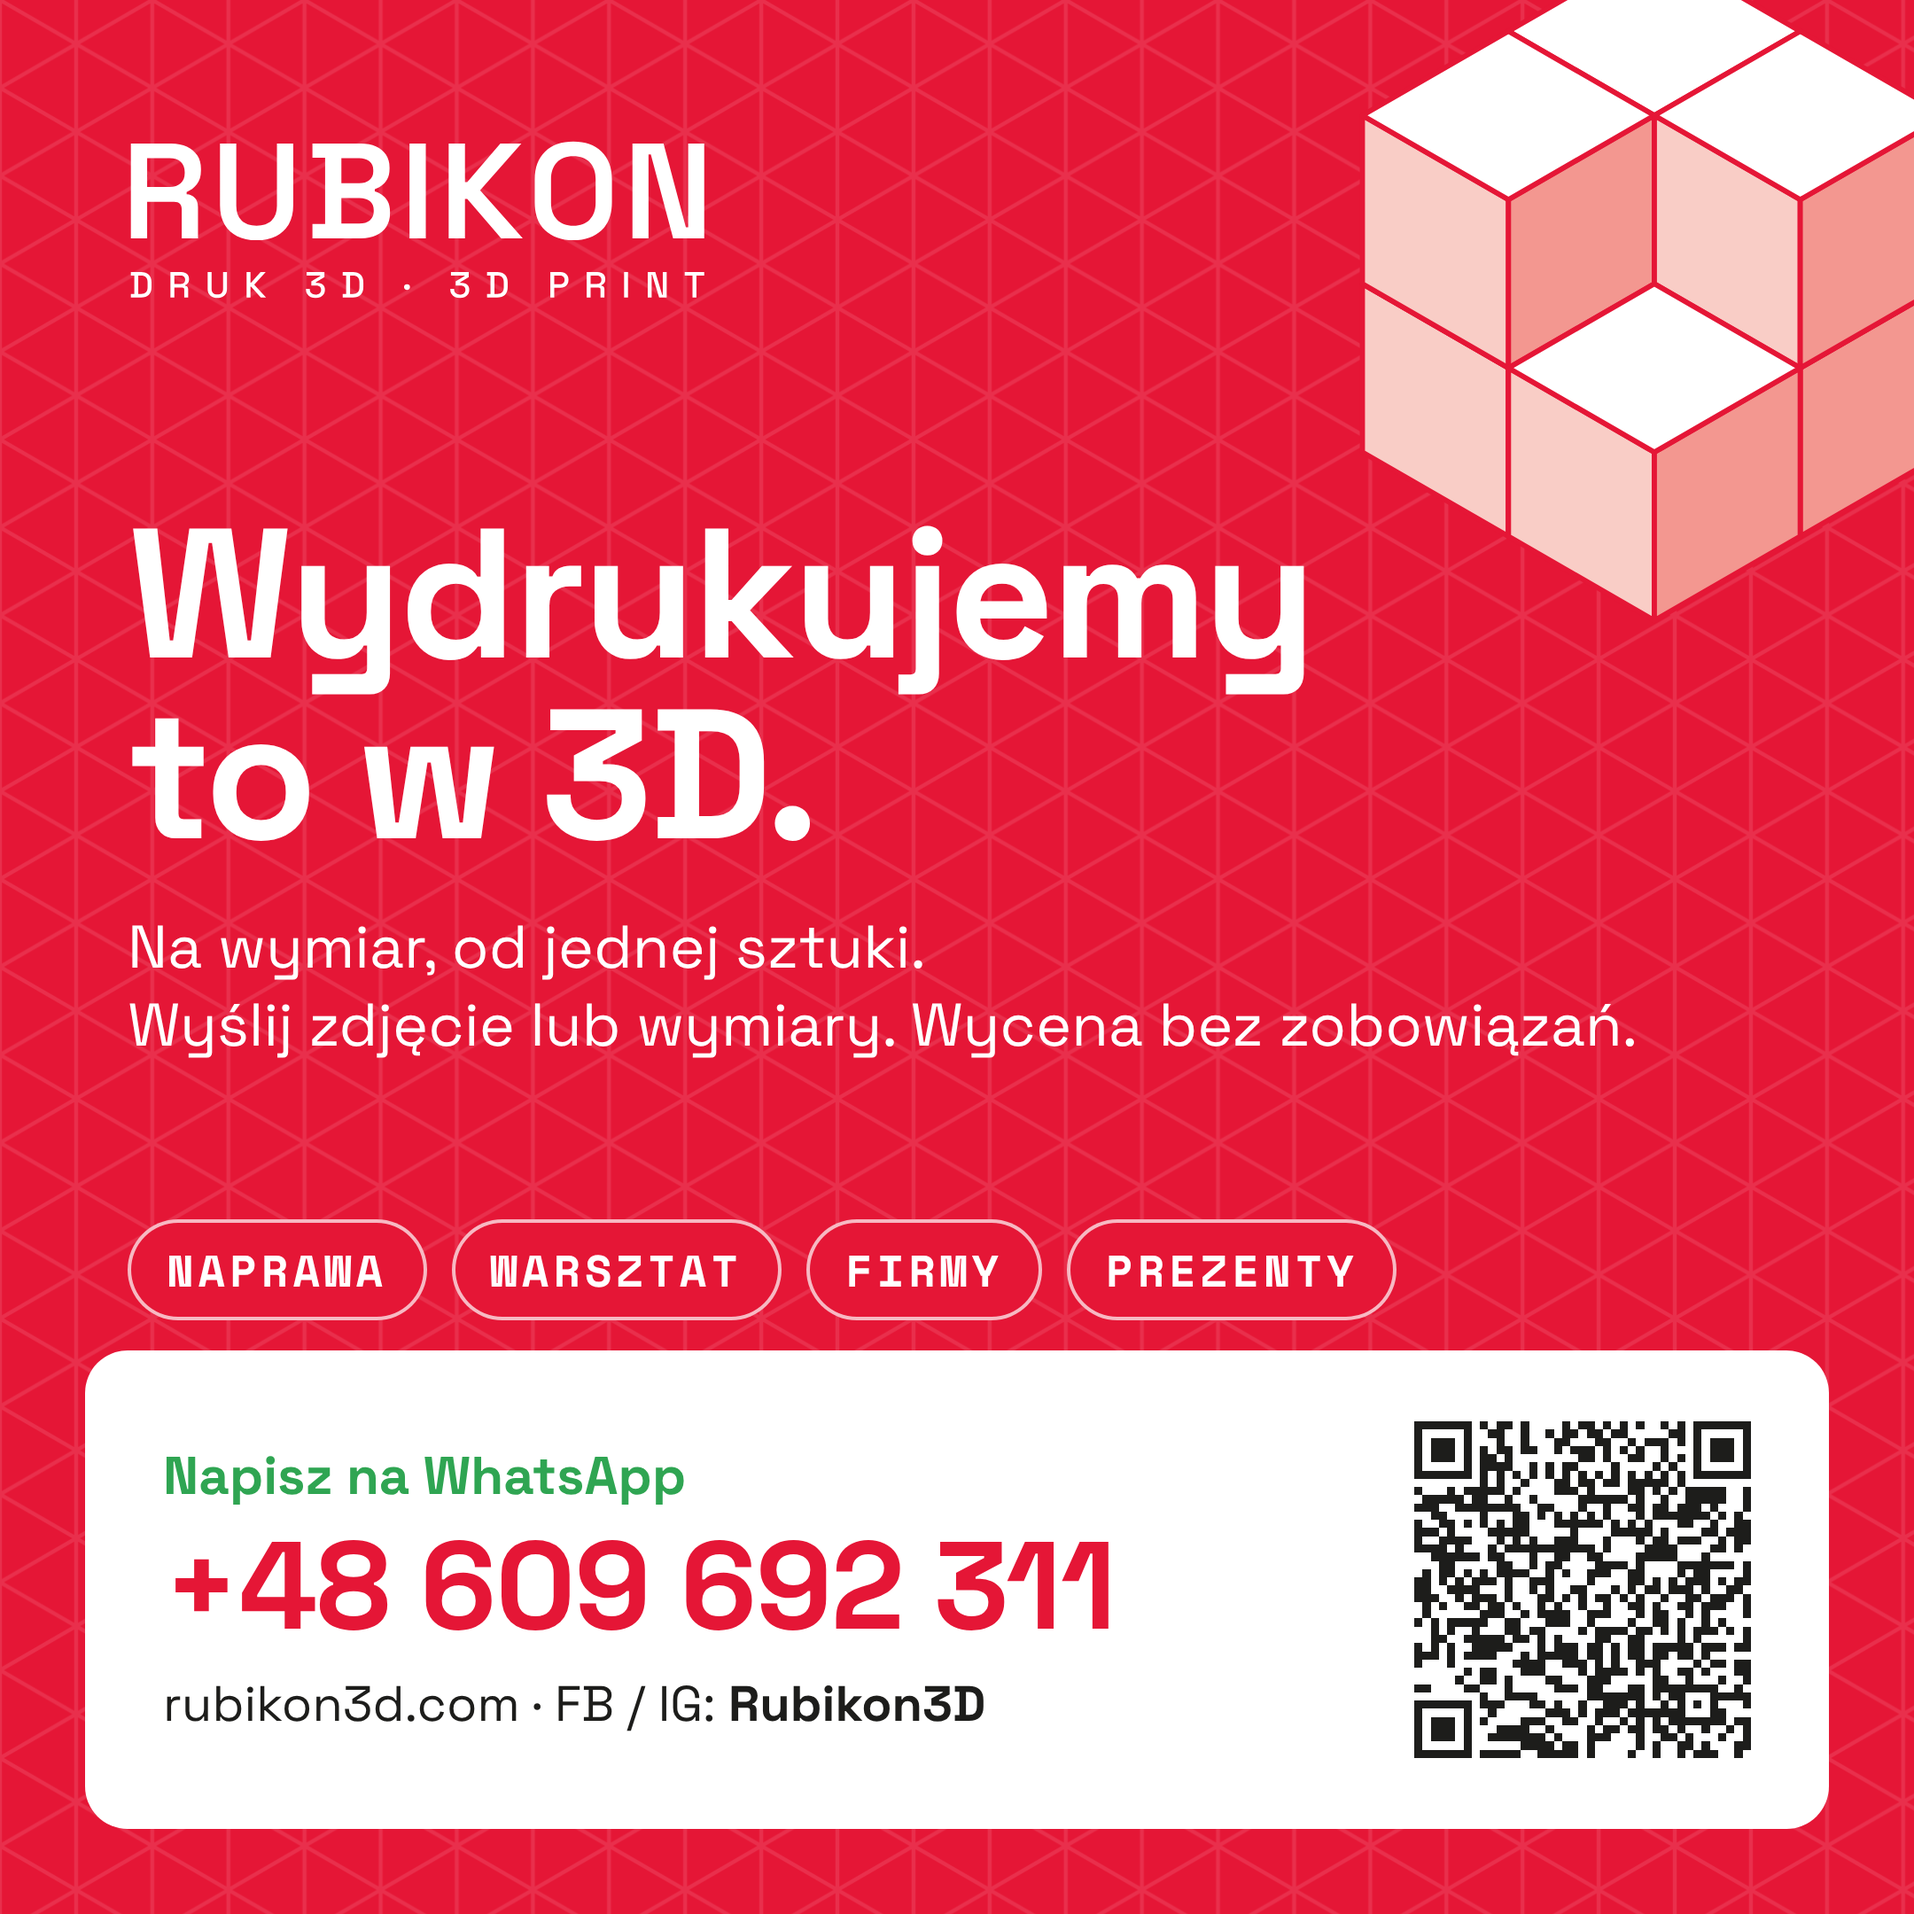
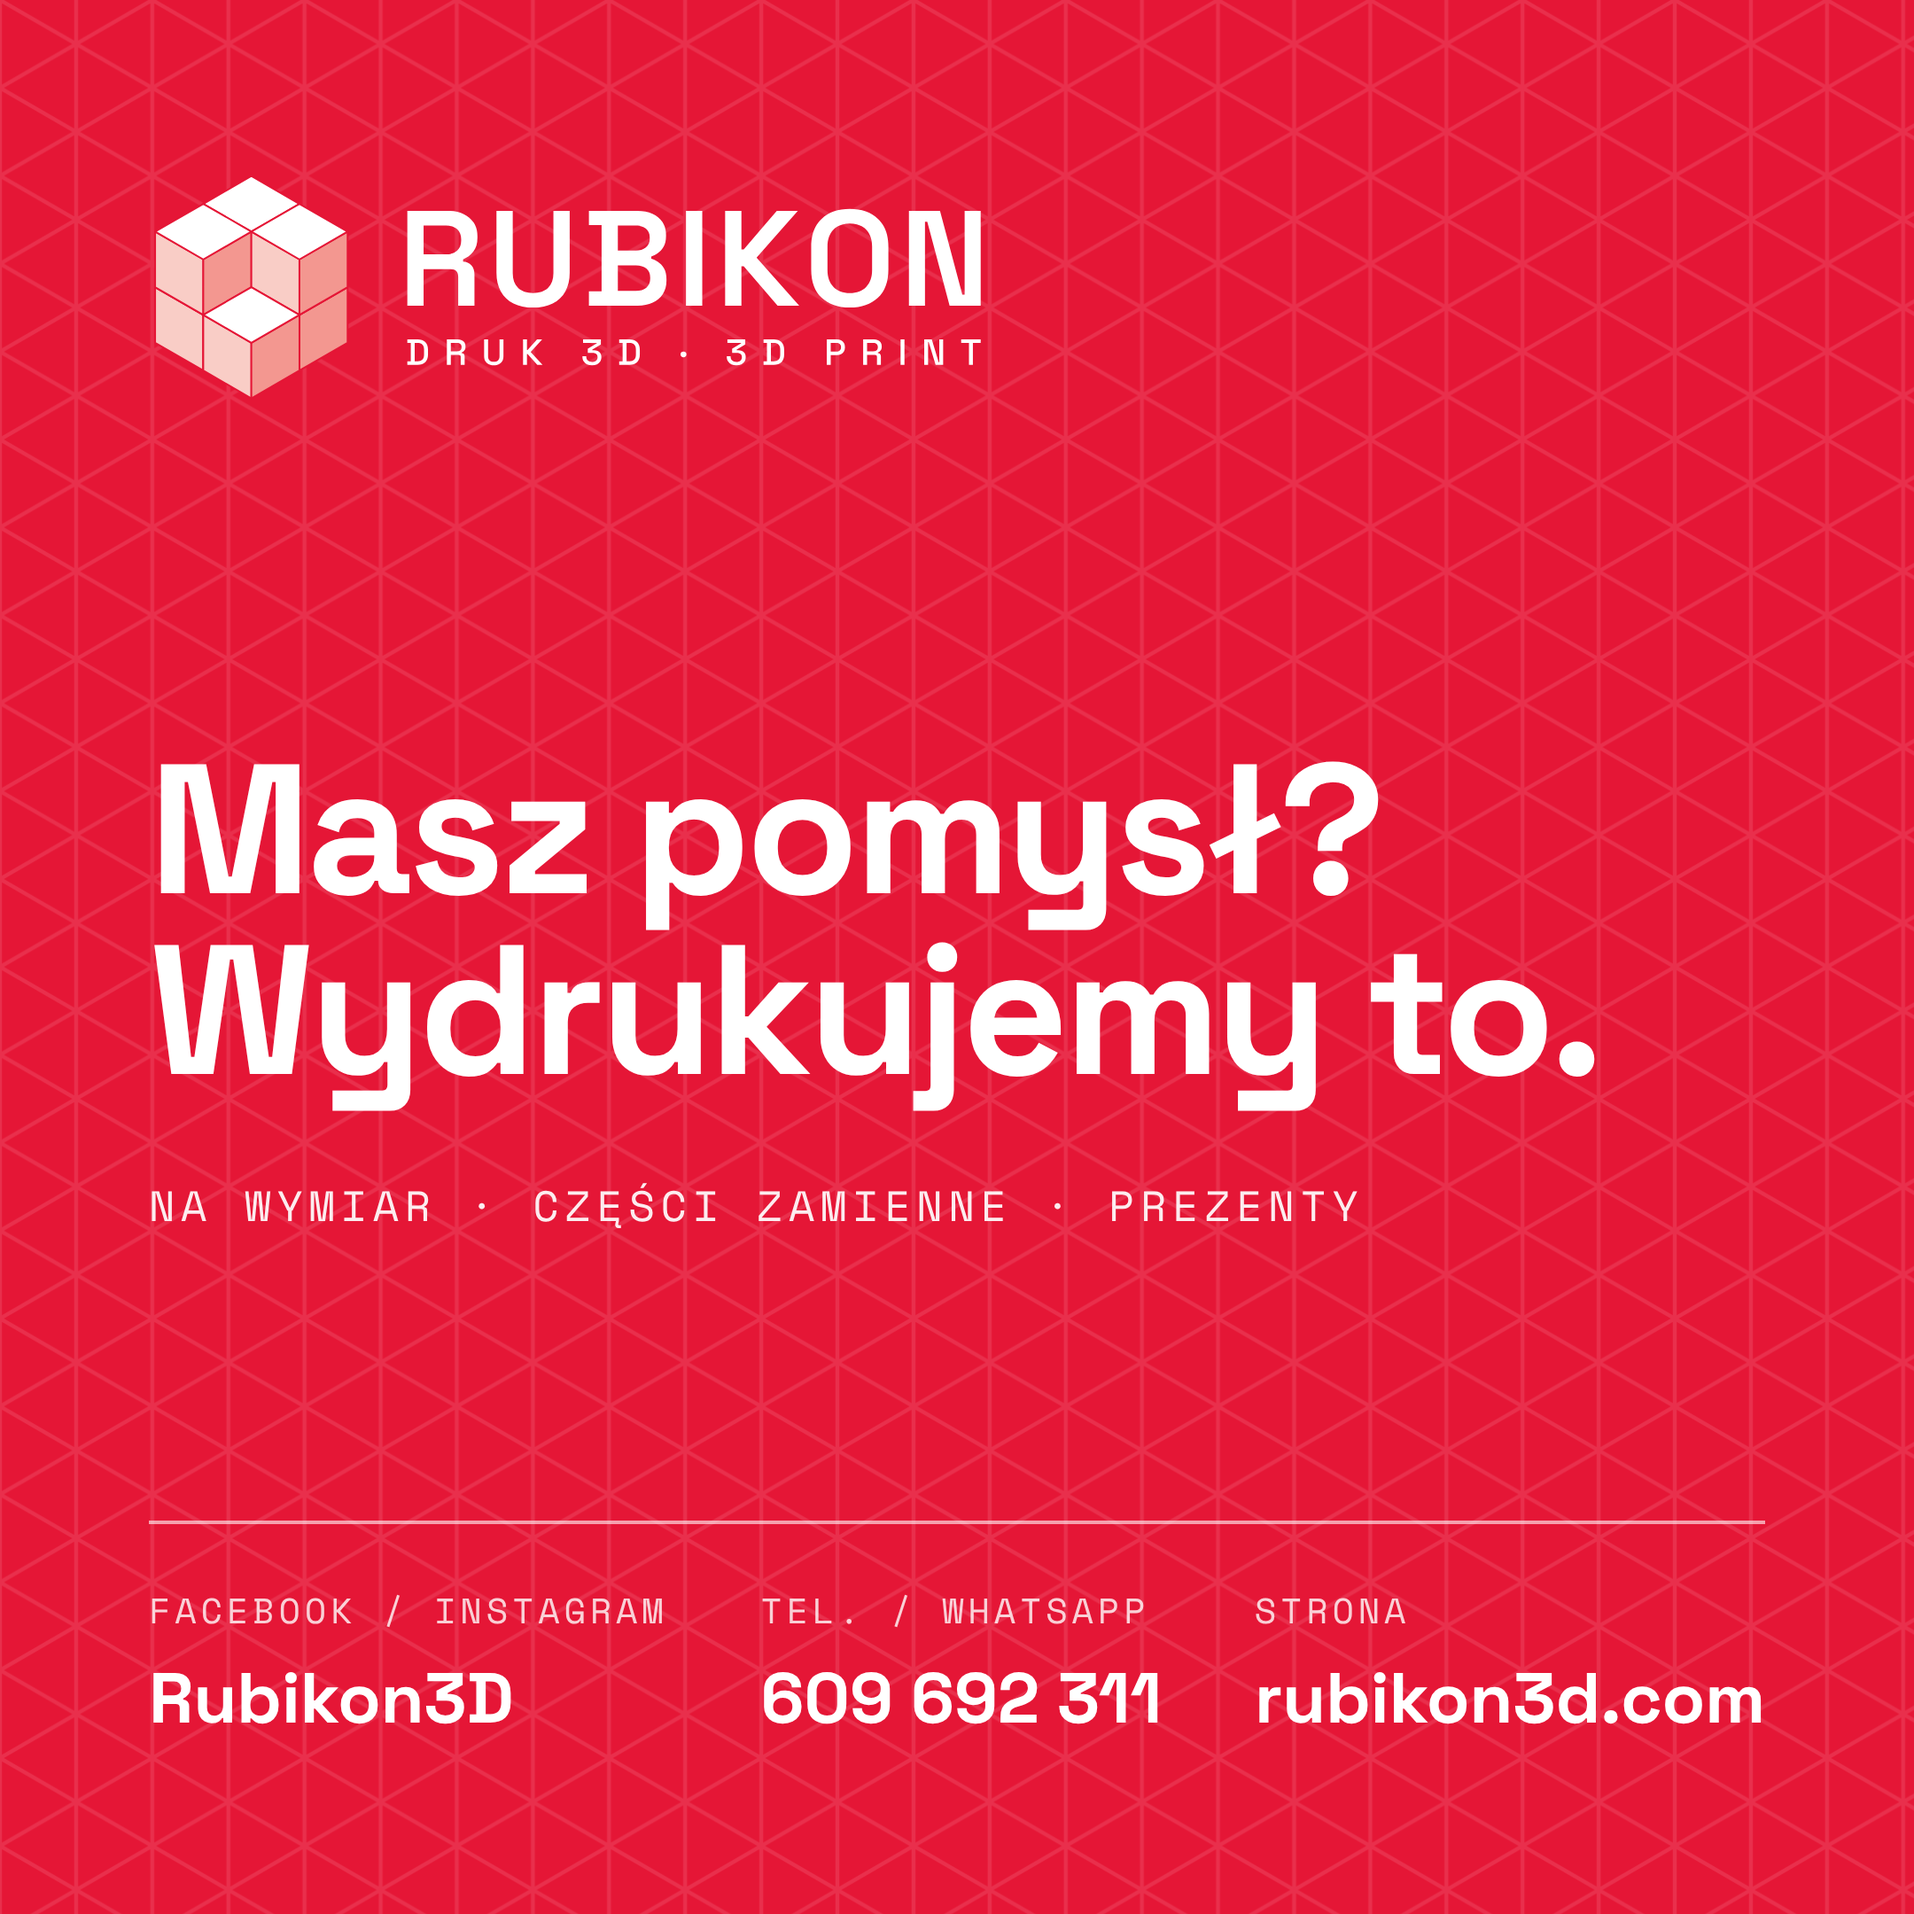
FB graphic: cleaner layout, equal contact channels (FB/IG, phone/WhatsApp, www); texts for page and private account
Claude-Session: https://claude.ai/code/session_01V9n2ssHcYFY6tMCdQtCuVM

diff --git a/rubikon3d-ulotki/zrodla/social.py b/rubikon3d-ulotki/zrodla/social.py
@@ -17,39 +17,32 @@ GRID = f"""<svg class="iso" xmlns="http://www.w3.org/2000/svg"><defs><pattern id
 <rect width="100%" height="100%" fill="url(#g)"/></svg>"""
 
 CSS = (A / "fonts.css").read_text() + """
-:root{--red:#E51636;--ink:#1D1D1B;--wa:#2FA552}
+:root{--red:#E51636}
 *{box-sizing:border-box;margin:0;padding:0}
 html,body{width:1080px;height:1080px}
 body{font-family:'Space Grotesk',sans-serif;-webkit-font-smoothing:antialiased}
 .sheet{position:relative;width:1080px;height:1080px;overflow:hidden;background:var(--red);color:#fff}
 .iso{position:absolute;inset:0;width:100%;height:100%}
-.cube{position:absolute;right:-30px;top:-40px;height:400px}
-.brand{position:absolute;left:72px;top:78px;height:92px}
-.hd{position:absolute;left:72px;right:72px;top:285px}
-.hd h1{font-size:104px;line-height:.98;font-weight:700;letter-spacing:-.02em}
-.hd p{margin-top:24px;font-size:34px;line-height:1.3}
-.tags{position:absolute;left:72px;right:72px;top:688px;display:flex;flex-wrap:wrap;gap:14px}
-.tags i{font-style:normal;background:var(--red);font-family:'Space Mono',monospace;font-weight:700;font-size:25px;letter-spacing:.1em;border:2px solid #ffffffb3;border-radius:40px;padding:8px 20px}
-.card{position:absolute;left:48px;right:48px;bottom:48px;height:270px;background:#fff;color:var(--ink);border-radius:24px;display:flex;align-items:center;gap:40px;padding:0 44px}
-.card .txt{flex:1;min-width:0}
-.card .wa{font-size:30px;font-weight:700;color:var(--wa)}
-.card .tel{font-size:70px;font-weight:700;letter-spacing:-.01em;line-height:1.05;margin:6px 0 12px;color:var(--red)}
-.card .more{font-size:28px;line-height:1.35}
-.card .more b{font-weight:700}
-.card .qr{width:190px;height:190px;flex:none}
-.card .qr svg{display:block;width:100%;height:100%}
+.logo{position:absolute;left:84px;top:96px;display:flex;align-items:center;gap:28px}
+.logo .c{height:132px}.logo .w{height:92px}
+.hd{position:absolute;left:84px;right:84px;top:418px}
+.hd h1{font-size:104px;white-space:nowrap;line-height:.98;font-weight:700;letter-spacing:-.025em}
+.hd p{margin-top:40px;font-family:'Space Mono',monospace;font-size:24px;letter-spacing:.14em;opacity:.92}
+.ct{position:absolute;left:84px;right:84px;bottom:96px;border-top:2px solid #ffffff99;padding-top:34px;display:grid;grid-template-columns:auto auto auto;justify-content:space-between;gap:28px}
+.ct span{display:block;font-family:'Space Mono',monospace;font-size:20px;letter-spacing:.12em;opacity:.8}
+.ct b{display:block;margin-top:10px;font-size:40px;font-weight:700;letter-spacing:-.005em}
 """
 
 HTML = f"""<!doctype html><html lang=pl><head><meta charset=utf-8><style>{CSS}</style></head><body><div class=sheet>
 {GRID}
-<img class=cube src="assets/cube.svg">
-<img class=brand src="assets/wordmark.svg">
-<div class=hd><h1>Wydrukujemy<br>to w 3D.</h1>
-<p>Na wymiar, od jednej sztuki.<br>Wyślij zdjęcie lub wymiary. Wycena bez zobowiązań.</p></div>
-<div class=tags><i>NAPRAWA</i><i>WARSZTAT</i><i>FIRMY</i><i>PREZENTY</i></div>
-<div class=card><div class=txt><div class=wa>Napisz na WhatsApp</div><div class=tel>+48 609 692 311</div>
-<div class=more>rubikon3d.com · FB / IG: <b>Rubikon3D</b></div></div>
-<div class=qr>{qr('fb')}</div></div>
+<div class=logo><img class=c src="assets/cube.svg"><img class=w src="assets/wordmark.svg"></div>
+<div class=hd><h1>Masz pomysł?<br>Wydrukujemy to.</h1>
+<p>NA WYMIAR · CZĘŚCI ZAMIENNE · PREZENTY</p></div>
+<div class=ct>
+ <div><span>FACEBOOK / INSTAGRAM</span><b>Rubikon3D</b></div>
+ <div><span>TEL. / WHATSAPP</span><b>609 692 311</b></div>
+ <div><span>STRONA</span><b>rubikon3d.com</b></div>
+</div>
 </div></body></html>"""
 
 html = B / "social-fb.html"

diff --git a/rubikon3d-ulotki/facebook/teksty.md b/rubikon3d-ulotki/facebook/teksty.md
@@ -1,14 +1,17 @@
 # Odpowiedzi do grup na Facebooku (wklej tekst + dołącz grafikę Rubikon3D-grafika-FB-1080.png)
 
-## 1. Ogólna
-Cześć! Mogę to wydrukować w 3D. Wyślij zdjęcie albo wymiary na WhatsApp, wycenię bez zobowiązań:
-https://wa.me/48609692311
-Tel. 609 692 311 · rubikon3d.com
+## Ze strony Rubikon3D
+### 1. Ogólna
+Cześć! Możemy to wydrukować w 3D. Napisz do nas wiadomość, najlepiej ze zdjęciem albo wymiarami. Wycena bez zobowiązań.
 
-## 2. Naprawa / brakująca część
-Cześć! Taką część da się dorobić w druku 3D. Wyślij mi zdjęcie (najlepiej z linijką obok) i najważniejsze wymiary, sprawdzę i wycenię:
-https://wa.me/48609692311
-Tel. 609 692 311
+### 2. Naprawa / brakująca część
+Cześć! Taką część da się dorobić w druku 3D. Wyślij nam w wiadomości zdjęcie (najlepiej z linijką obok) i najważniejsze wymiary, sprawdzimy i wycenimy.
 
-## 3. Krótka
-Wydrukuję to w 3D. Napisz na WhatsApp, wycena bez zobowiązań: https://wa.me/48609692311
+## Z konta prywatnego
+### 3. Ogólna
+Cześć! Zajmuję się drukiem 3D (@Rubikon3D) i mogę to wydrukować. Napisz do mnie prywatnie albo na stronę, najlepiej ze zdjęciem albo wymiarami. Wycena bez zobowiązań.
+
+### 4. Krótka
+Mogę to wydrukować w 3D. Napisz do mnie prywatnie, wycena bez zobowiązań.
+
+Wskazówka: w wersji 3 wpisz @Rubikon3D i wybierz stronę z listy, wtedy nazwa stanie się linkiem.
